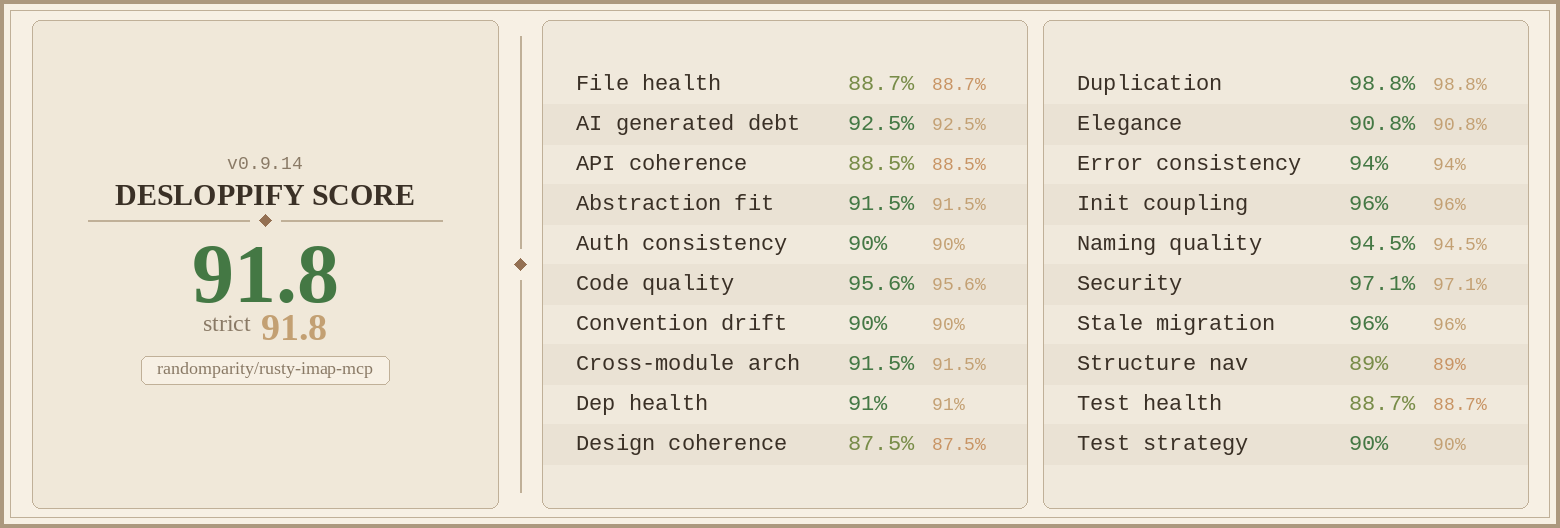
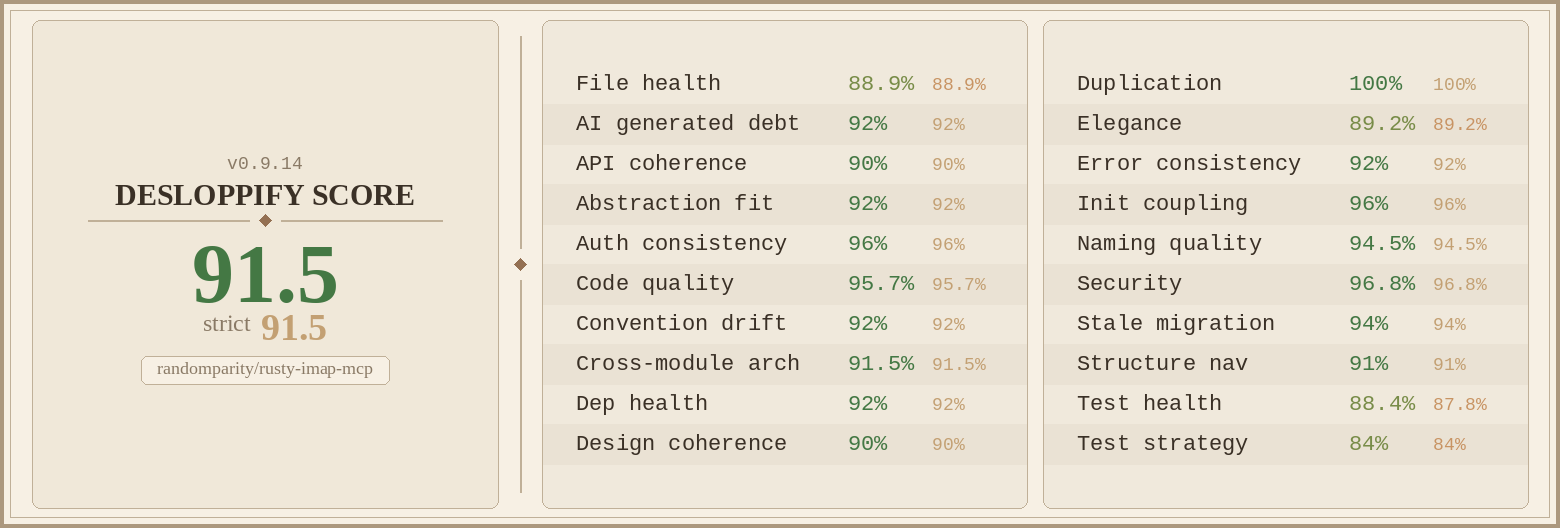
desloppify: review batch 3 — 6 findings fixed
- Rename misleading `RimapError::Authz` variant to `RimapError::Tagged`.
  The variant carries `NotFound`, `InvalidInput`, `AttachmentTooLarge`,
  `ProtectedFolder`, `ExpungeDenied` etc. — all tool-layer non-sourced
  failures, not just authz decisions. The new name + doc make the role
  explicit. Touched 44 call sites across the workspace.
- Refresh `send_email`'s `# Errors` block: drop the stale `Internal`
  envelope-build path (build_envelope is infallible) and document the
  `Imap` propagation from threading-header construction.
- Add `[package.metadata.cargo-machete] ignored = ["ulid"]` to
  rimap-audit so machete stops false-flagging the macro-expanded dep
  (matches the existing phf carve-out in rimap-content).
- Drop the redundant `validate_server_folder_name` call at the top of
  `copy_delete_fallback` — the only entry point (`move_messages`)
  already validates.
- Drop the always-true `created`/`renamed`/`deleted` booleans from
  `CreateFolderMeta`/`RenameFolderMeta`/`DeleteFolderMeta` — the
  JSON-RPC envelope's success/error split already encodes this.
- Document the boot/daemon/mcp/tools submodule visibility convention
  on lib.rs: `pub(crate) mod` by default, `pub mod` when an integration
  test imports the module. The whole tree is `#[doc(hidden)]` through
  the lib.rs wrappers.

diff --git a/crates/rimap-server/src/tools/mailbox/folder_management.rs b/crates/rimap-server/src/tools/mailbox/folder_management.rs
@@ -33,8 +33,6 @@ pub struct DeleteFolderInput {
 #[derive(Debug, Serialize)]
 #[non_exhaustive]
 pub struct CreateFolderMeta {
-    /// Always `true` when the handler returns `Ok`.
-    pub created: bool,
     /// Name of the created folder.
     pub folder: String,
 }
@@ -43,8 +41,6 @@ pub struct CreateFolderMeta {
 #[derive(Debug, Serialize)]
 #[non_exhaustive]
 pub struct RenameFolderMeta {
-    /// Always `true` when the handler returns `Ok`.
-    pub renamed: bool,
     /// Previous folder name.
     pub old_folder: String,
     /// New folder name.
@@ -55,8 +51,6 @@ pub struct RenameFolderMeta {
 #[derive(Debug, Serialize)]
 #[non_exhaustive]
 pub struct DeleteFolderMeta {
-    /// Always `true` when the handler returns `Ok`.
-    pub deleted: bool,
     /// Name of the deleted folder.
     pub folder: String,
     /// Number of messages that were in the folder before deletion.
@@ -69,9 +63,9 @@ pub struct DeleteFolderMeta {
 ///
 /// `FolderGuard::check_protected` runs before any IMAP traffic and is
 /// the first source of errors:
-/// - `RimapError::Authz { code: InvalidFolderName, ... }` if the name
+/// - `RimapError::Tagged { code: InvalidFolderName, ... }` if the name
 ///   fails structural validation (empty, too long, forbidden chars).
-/// - `RimapError::Authz { code: ProtectedFolder, ... }` if the name is
+/// - `RimapError::Tagged { code: ProtectedFolder, ... }` if the name is
 ///   in the protected list or is INBOX.
 ///
 /// After the guard passes, `RimapError::Imap { ... }` may be propagated
@@ -90,7 +84,6 @@ pub async fn handle_create_folder(
     account.imap.create_folder(&input.folder).await?;
 
     Ok(ToolResponse::meta_only(CreateFolderMeta {
-        created: true,
         folder: input.folder,
     }))
 }
@@ -101,9 +94,9 @@ pub async fn handle_create_folder(
 ///
 /// `FolderGuard::check_rename` runs before any IMAP traffic and is the
 /// first source of errors:
-/// - `RimapError::Authz { code: InvalidFolderName, ... }` if either the
+/// - `RimapError::Tagged { code: InvalidFolderName, ... }` if either the
 ///   source or destination name fails structural validation.
-/// - `RimapError::Authz { code: ProtectedFolder, ... }` if either name
+/// - `RimapError::Tagged { code: ProtectedFolder, ... }` if either name
 ///   is in the protected list or is INBOX.
 ///
 /// After the guard passes, `RimapError::Imap { ... }` may be propagated
@@ -126,7 +119,6 @@ pub async fn handle_rename_folder(
         .await?;
 
     Ok(ToolResponse::meta_only(RenameFolderMeta {
-        renamed: true,
         old_folder: input.folder,
         new_folder: input.new_folder,
     }))
@@ -138,12 +130,12 @@ pub async fn handle_rename_folder(
 ///
 /// `FolderGuard` runs before any IMAP traffic and is the first source
 /// of errors:
-/// - `RimapError::Authz { code: InvalidFolderName, ... }` if the name
+/// - `RimapError::Tagged { code: InvalidFolderName, ... }` if the name
 ///   fails structural validation (from `check_protected` or
 ///   `check_expunge`).
-/// - `RimapError::Authz { code: ProtectedFolder, ... }` if the name is
+/// - `RimapError::Tagged { code: ProtectedFolder, ... }` if the name is
 ///   in the protected list or is INBOX.
-/// - `RimapError::Authz { code: ExpungeDenied, ... }` if the folder is
+/// - `RimapError::Tagged { code: ExpungeDenied, ... }` if the folder is
 ///   not in the expunge allowlist.
 ///
 /// After the guards pass, `RimapError::Imap { ... }` may be propagated
@@ -179,7 +171,6 @@ pub async fn handle_delete_folder(
     account.imap.delete_folder(&input.folder).await?;
 
     Ok(ToolResponse::meta_only(DeleteFolderMeta {
-        deleted: true,
         folder: input.folder,
         message_count,
     }))

diff --git a/crates/rimap-core/src/error.rs b/crates/rimap-core/src/error.rs
@@ -147,9 +147,16 @@ impl<'de> Deserialize<'de> for ErrorCode {
 #[derive(Debug, Error)]
 #[non_exhaustive]
 pub enum RimapError {
-    /// Authorization, posture, rate limit, or breaker failure.
+    /// Generic tagged error envelope for any tool-layer failure that does
+    /// not need a typed `source` chain — authz/posture/rate-limit denials
+    /// (`PostureDenied`, `RateLimited`, `CircuitOpen`, `InvalidFolderName`,
+    /// `ProtectedFolder`, `ExpungeDenied`), input validation
+    /// (`InvalidInput`), and not-found / size-cap conditions
+    /// (`NotFound`, `AttachmentTooLarge`). The variant carries a
+    /// stable [`ErrorCode`]; consumers must classify by `code()`, not
+    /// by variant name.
     #[error("{code}: {message}")]
-    Authz {
+    Tagged {
         /// Stable error code.
         code: ErrorCode,
         /// Human-readable message.
@@ -249,7 +256,7 @@ impl RimapError {
     /// codes that surface to MCP as `INVALID_PARAMS`.
     #[must_use]
     pub fn invalid_input(message: impl Into<String>) -> Self {
-        Self::Authz {
+        Self::Tagged {
             code: ErrorCode::InvalidInput,
             message: message.into(),
         }
@@ -259,7 +266,7 @@ impl RimapError {
     #[must_use]
     pub fn code(&self) -> ErrorCode {
         match self {
-            Self::Authz { code, .. }
+            Self::Tagged { code, .. }
             | Self::Imap { code, .. }
             | Self::Smtp { code, .. }
             | Self::Audit { code, .. } => *code,
@@ -325,7 +332,7 @@ mod tests {
 
     #[test]
     fn rimap_error_code_accessor_matches_variant() {
-        let authz = RimapError::Authz {
+        let authz = RimapError::Tagged {
             code: ErrorCode::RateLimited,
             message: "slow down".to_string(),
         };
@@ -341,7 +348,7 @@ mod tests {
 
     #[test]
     fn rimap_error_display_includes_code_prefix() {
-        let err = RimapError::Authz {
+        let err = RimapError::Tagged {
             code: ErrorCode::PostureDenied,
             message: "tool disabled".to_string(),
         };

diff --git a/crates/rimap-server/src/tools/compose/send_email.rs b/crates/rimap-server/src/tools/compose/send_email.rs
@@ -46,14 +46,16 @@ pub struct SendEmailMeta {
 ///
 /// # Errors
 ///
-/// Returns `RimapError::Authz { code: InvalidInput, ... }` for malformed
+/// Returns `RimapError::Tagged { code: InvalidInput, ... }` for malformed
 /// recipient addresses or compose-input violations. Returns
 /// `RimapError::Config` if no SMTP is configured for the account.
-/// Returns `RimapError::Smtp { ... }` on SMTP failure. Returns
-/// `RimapError::Internal` if the lettre envelope cannot be built from an
-/// already-validated compose input (should not happen in practice). The
-/// copy-to-Sent APPEND is best-effort; an IMAP failure there surfaces via
-/// `sent_copy.failed` in the response, not as an error.
+/// Returns `RimapError::Smtp { ... }` on SMTP failure (including
+/// client-side `Rejected` for addresses that fail `lettre::Address`
+/// parsing — see [`rimap_smtp::SmtpClient::send_raw`]). When
+/// `input.in_reply_to_uid` is set, threading-header construction calls
+/// the IMAP fetch path, so `RimapError::Imap` may also propagate.
+/// The copy-to-Sent APPEND is best-effort; an IMAP failure there
+/// surfaces via `sent_copy.failed` in the response, not as an error.
 pub async fn handle(
     account: &AccountState,
     input: SendEmailInput,

diff --git a/crates/rimap-server/src/lib.rs b/crates/rimap-server/src/lib.rs
@@ -5,6 +5,18 @@
 //! `tests/` can reach internal types, without advertising a stable
 //! library API. External consumers should not depend on this
 //! surface — it is an implementation detail.
+//!
+//! # Submodule visibility convention
+//!
+//! Inside the top-level subfolders (`boot/`, `daemon/`, `mcp/`,
+//! `tools/`), child modules use `pub mod` whenever any integration
+//! test (the only out-of-crate consumer) needs to reach them, and
+//! `pub(crate) mod` otherwise. The whole tree is `#[doc(hidden)]`
+//! through the wrappers above, so the `pub` does not advertise a
+//! stable library API — it just keeps integration-test reach
+//! working without stamping `#[cfg(test)] pub use` re-exports
+//! everywhere. New modules should default to `pub(crate) mod` and
+//! switch to `pub mod` only when an integration test imports them.
 
 #![deny(missing_docs)]
 

diff --git a/crates/rimap-server/src/mcp/content.rs b/crates/rimap-server/src/mcp/content.rs
@@ -20,7 +20,7 @@ use tokio::sync::Semaphore;
 )]
 fn classify_content_error(err: &ContentError) -> RimapError {
     match err {
-        ContentError::LimitExceeded { .. } => RimapError::Authz {
+        ContentError::LimitExceeded { .. } => RimapError::Tagged {
             code: ErrorCode::AttachmentTooLarge,
             message: err.to_string(),
         },
@@ -39,10 +39,10 @@ static PARSE_SEMAPHORE: LazyLock<Semaphore> = LazyLock::new(|| Semaphore::new(8)
 /// the tokio runtime. `parse_message` is CPU-bound (~2 ms per message).
 ///
 /// Classifies failures by source:
-/// - `ContentError::Malformed` surfaces as `RimapError::Authz { code:
+/// - `ContentError::Malformed` surfaces as `RimapError::Tagged { code:
 ///   InvalidInput, ... }` — the caller-supplied bytes are syntactically
 ///   broken.
-/// - `ContentError::LimitExceeded` surfaces as `RimapError::Authz { code:
+/// - `ContentError::LimitExceeded` surfaces as `RimapError::Tagged { code:
 ///   AttachmentTooLarge, ... }` — a hard content-pipeline cap (message
 ///   bytes, MIME depth/parts, header count, HTML size) was exceeded.
 /// - Panics from the blocking task or a closed acquisition semaphore
@@ -64,9 +64,9 @@ pub async fn parse_message_async(raw: Vec<u8>) -> Result<Content, RimapError> {
 ///
 /// # Errors
 ///
-/// - `RimapError::Authz { code: InvalidInput, ... }` for
+/// - `RimapError::Tagged { code: InvalidInput, ... }` for
 ///   `ContentError::Malformed` (malformed RFC 5322).
-/// - `RimapError::Authz { code: AttachmentTooLarge, ... }` for
+/// - `RimapError::Tagged { code: AttachmentTooLarge, ... }` for
 ///   `ContentError::LimitExceeded` (hard content-pipeline cap hit).
 /// - `RimapError::Internal` for panics or a closed semaphore.
 pub async fn walk_attachment_parts_async(

diff --git a/crates/rimap-server/src/tools/retrieval/download_attachment.rs b/crates/rimap-server/src/tools/retrieval/download_attachment.rs
@@ -74,14 +74,14 @@ pub struct DownloadAttachmentUntrusted {
 ///
 /// # Errors
 ///
-/// - `RimapError::Authz { code: InvalidInput, ... }` if the resolved
+/// - `RimapError::Tagged { code: InvalidInput, ... }` if the resolved
 ///   `dest_dir` cannot be canonicalized or escapes the configured
 ///   download sandbox.
-/// - `RimapError::Authz { code: NotFound, ... }` if the `part_id` is
+/// - `RimapError::Tagged { code: NotFound, ... }` if the `part_id` is
 ///   not present in the message.
 /// - Propagates `RimapError::Imap { ... }` from SELECT / UID FETCH.
-/// - `RimapError::Authz { code: InvalidInput, ... }` for malformed MIME
-///   bodies and `RimapError::Authz { code: AttachmentTooLarge, ... }`
+/// - `RimapError::Tagged { code: InvalidInput, ... }` for malformed MIME
+///   bodies and `RimapError::Tagged { code: AttachmentTooLarge, ... }`
 ///   when a content-pipeline cap (MIME depth/parts, header count, body
 ///   size) is exceeded during parse.
 /// - `RimapError::Internal` for unrecoverable filesystem or hashing
@@ -111,7 +111,7 @@ pub async fn handle(
     let part = parts
         .into_iter()
         .find(|p| p.part_id == input.part_id)
-        .ok_or_else(|| rimap_core::RimapError::Authz {
+        .ok_or_else(|| rimap_core::RimapError::Tagged {
             code: rimap_core::error::ErrorCode::NotFound,
             message: format!("part_id {} not found in message", input.part_id),
         })?;

diff --git a/crates/rimap-authz/src/error.rs b/crates/rimap-authz/src/error.rs
@@ -1,4 +1,4 @@
-//! Authorization-layer error type. Converts into `RimapError::Authz` with the
+//! Authorization-layer error type. Converts into `RimapError::Tagged` with the
 //! appropriate error code.
 
 use rimap_core::error::{ErrorCode, RimapError};
@@ -87,7 +87,7 @@ impl AuthzError {
 
 impl From<AuthzError> for RimapError {
     fn from(err: AuthzError) -> Self {
-        RimapError::Authz {
+        RimapError::Tagged {
             code: err.code(),
             message: err.to_string(),
         }
@@ -107,7 +107,7 @@ mod tests {
         let msg = err.to_string();
         let mapped: RimapError = err.into();
         match mapped {
-            RimapError::Authz { code, message } => {
+            RimapError::Tagged { code, message } => {
                 assert_eq!(code, ErrorCode::RateLimited);
                 assert_eq!(message, msg);
             }

diff --git a/crates/rimap-server/src/boot/account_state.rs b/crates/rimap-server/src/boot/account_state.rs
@@ -29,14 +29,14 @@ use rimap_smtp::SmtpClient;
 /// In-memory, unkeyed governor limiter used for infrastructure tools.
 type InfrastructureLimiter = RateLimiter<NotKeyed, InMemoryState, DefaultClock, NoOpMiddleware>;
 
-/// Translate a `governor` rejection into [`RimapError::Authz`] with a
+/// Translate a `governor` rejection into [`RimapError::Tagged`] with a
 /// rate-limited error code and a human-readable retry hint. The
 /// underlying ms math is shared with the per-account governor via
 /// [`retry_after_ms`]; this wrapper adds the infrastructure-tool
 /// framing and skips the intermediate `AuthzError`.
 fn infra_rate_limited(not_until: &NotUntil<DefaultInstant>, clock: &DefaultClock) -> RimapError {
     let wait_ms = retry_after_ms(not_until, clock);
-    RimapError::Authz {
+    RimapError::Tagged {
         code: ErrorCode::RateLimited,
         message: format!("infrastructure tool rate limit exceeded; retry in {wait_ms}ms"),
     }
@@ -126,7 +126,7 @@ impl AccountRegistry {
     ///
     /// # Errors
     ///
-    /// Returns [`RimapError::Authz`] with
+    /// Returns [`RimapError::Tagged`] with
     /// [`ErrorCode::RateLimited`] when the limit is exceeded. The
     /// error message includes a retry hint in milliseconds.
     pub fn check_infrastructure_rate(&self) -> Result<(), RimapError> {

diff --git a/crates/rimap-server/src/tools/common/fetch_by_uid.rs b/crates/rimap-server/src/tools/common/fetch_by_uid.rs
@@ -20,7 +20,7 @@ use crate::boot::account_state::AccountState;
 ///
 /// - `RimapError::Imap { code: UidValidityChanged }` if expected UIDVALIDITY
 ///   does not match the server's observed value.
-/// - `RimapError::Authz { code: NotFound }` if the server returned no
+/// - `RimapError::Tagged { code: NotFound }` if the server returned no
 ///   message for `uid` in `folder`.
 /// - Propagates `RimapError::Imap { ... }` from the underlying
 ///   `SELECT` / `UID FETCH`.
@@ -51,7 +51,7 @@ fn first_or_not_found(
     messages
         .into_iter()
         .next()
-        .ok_or_else(|| rimap_core::RimapError::Authz {
+        .ok_or_else(|| rimap_core::RimapError::Tagged {
             code: rimap_core::error::ErrorCode::NotFound,
             message: format!("message UID {} not found in folder '{}'", uid.get(), folder),
         })
@@ -84,7 +84,7 @@ mod tests {
     fn empty_fetch_result_maps_to_not_found_authz() {
         let err = first_or_not_found(Vec::new(), "INBOX", uid(42)).unwrap_err();
         match err {
-            RimapError::Authz { code, message } => {
+            RimapError::Tagged { code, message } => {
                 assert_eq!(code, ErrorCode::NotFound);
                 assert!(message.contains("42"), "message missing UID: {message}");
                 assert!(

diff --git a/crates/rimap-server/src/tools/admin/accounts.rs b/crates/rimap-server/src/tools/admin/accounts.rs
@@ -51,7 +51,7 @@ pub struct ListAccountsMeta {
 ///
 /// # Errors
 ///
-/// Returns `RimapError::Authz { code: InvalidInput, ... }` if
+/// Returns `RimapError::Tagged { code: InvalidInput, ... }` if
 /// `input.account` contains bidi-control, zero-width, or Unicode Tag
 /// codepoints, or if it is not a valid account-name shape. Returns
 /// `RimapError::UnknownAccount { ... }` if the name does not match a
@@ -167,7 +167,7 @@ mod tests {
 
     fn assert_invalid_input(err: &RimapError) {
         match err {
-            RimapError::Authz { code, .. } => {
+            RimapError::Tagged { code, .. } => {
                 assert_eq!(*code, ErrorCode::InvalidInput);
             }
             other => panic!("expected Authz{{InvalidInput}}, got {other:?}"),

diff --git a/crates/rimap-server/src/tools/mailbox/expunge.rs b/crates/rimap-server/src/tools/mailbox/expunge.rs
@@ -31,9 +31,9 @@ pub struct ExpungeMeta {
 ///
 /// `FolderGuard::check_expunge` runs before any IMAP traffic and is the
 /// first source of errors:
-/// - `RimapError::Authz { code: InvalidFolderName, ... }` if the name
+/// - `RimapError::Tagged { code: InvalidFolderName, ... }` if the name
 ///   fails structural validation (empty, too long, forbidden chars).
-/// - `RimapError::Authz { code: ExpungeDenied, ... }` when the folder
+/// - `RimapError::Tagged { code: ExpungeDenied, ... }` when the folder
 ///   is not in `expunge_folders`.
 ///
 /// After the guard passes, `RimapError::Imap { ... }` may be propagated

diff --git a/crates/rimap-server/src/tools/mailbox/labels.rs b/crates/rimap-server/src/tools/mailbox/labels.rs
@@ -143,7 +143,7 @@ pub struct ListLabelsMeta {
 ///
 /// # Errors
 ///
-/// Returns `RimapError::Authz { code: InvalidInput, ... }` for invalid
+/// Returns `RimapError::Tagged { code: InvalidInput, ... }` for invalid
 /// labels (empty, control chars, atom-specials, system-flag collisions,
 /// zero UID, batch over 100). Returns `RimapError::Imap { ... }` for
 /// IMAP-layer failures.
@@ -206,7 +206,7 @@ async fn handle_label_op(
 ///
 /// # Errors
 ///
-/// Returns `RimapError::Authz { code: NotFound }` if the message UID is
+/// Returns `RimapError::Tagged { code: NotFound }` if the message UID is
 /// missing in the folder, and `Imap { ... }` for IMAP-layer failures.
 pub async fn handle_list_labels(
     account: &AccountState,